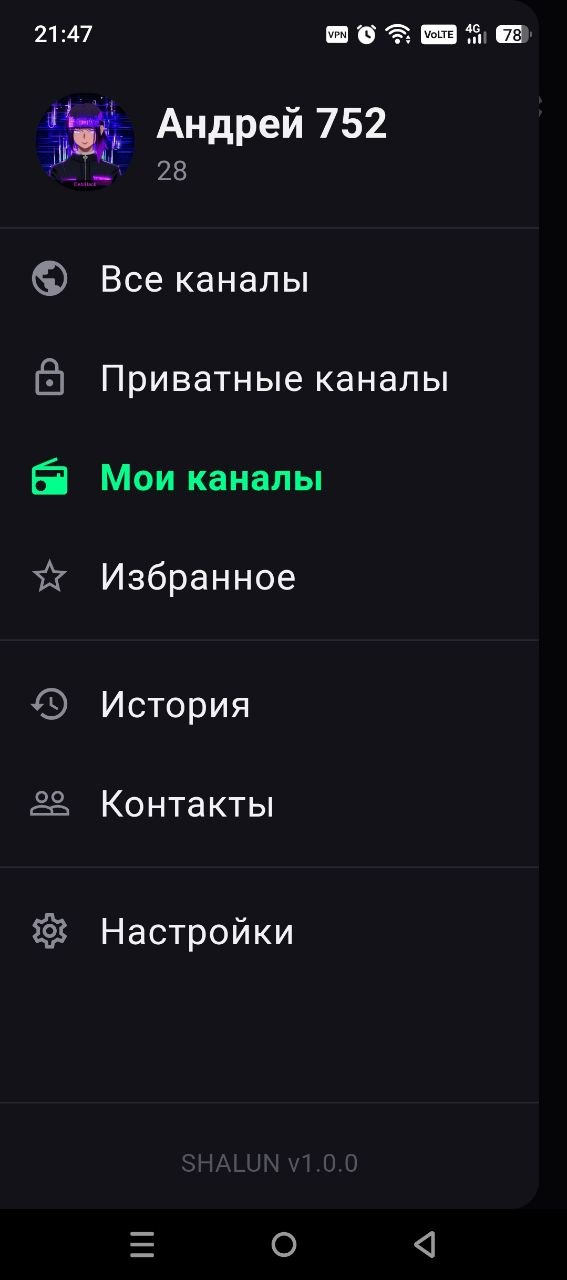
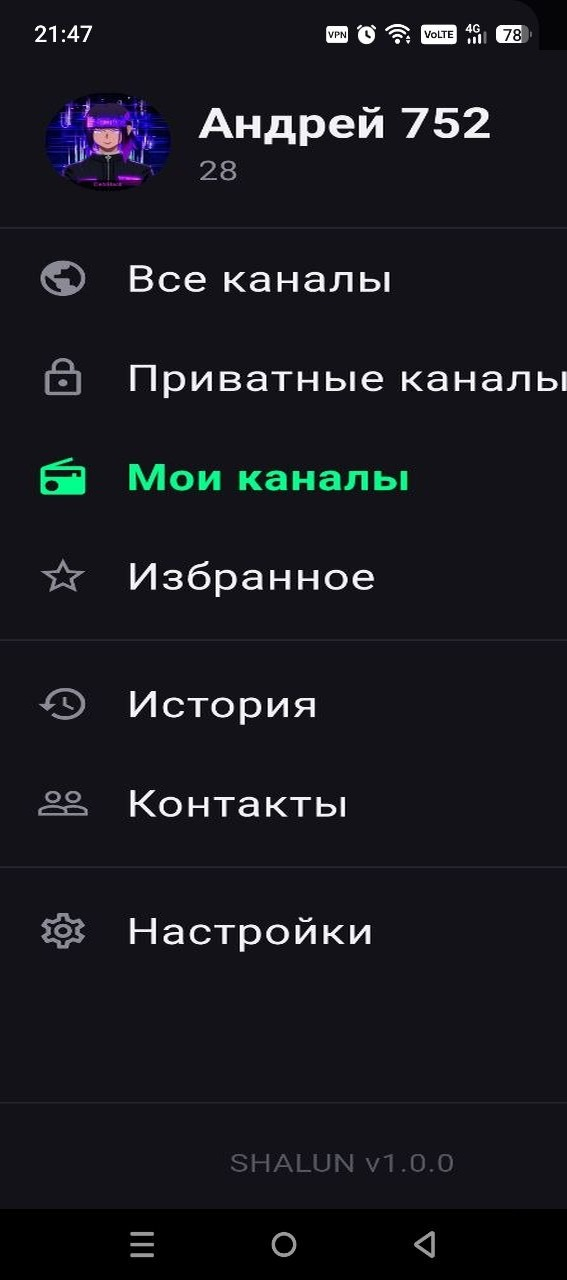
v10: ONLY drawer screenshot fixed (panel widened, no gap) — rest of v10 untouched

diff --git a/shalun/index.html b/shalun/index.html
@@ -269,7 +269,7 @@ footer .f-note b{color:var(--green);font-weight:600}
       <img class="screen-img" data-s="1" src="img/03-channels-list.jpg?v=10" alt="Мои каналы">
       <img class="screen-img" data-s="2" src="img/04-search-join-dialog.jpg?v=10" alt="Запрос на вход">
       <img class="screen-img" data-s="3" src="img/06-radio-screen.jpg?v=10" alt="Экран рации">
-      <img class="screen-img" data-s="4" src="img/07-drawer-menu.jpg?v=10" alt="Меню">
+      <img class="screen-img" data-s="4" src="img/07-drawer-menu.jpg?v=16" alt="Меню">
     </div>
     <div class="cap" id="storyCap"><b>ШАГ 1</b> — РЕГИСТРАЦИЯ</div>
   </div></div>
@@ -311,7 +311,7 @@ footer .f-note b{color:var(--green);font-weight:600}
     <h3>Меню — <em>всё под рукой</em></h3>
     <p>Свайп от левого края: все каналы, приватные, мои, избранное, история разговоров, контакты, настройки. <b>История</b> пригодится разобрать, кто и что передавал.</p>
     <span class="hint"><svg viewBox="0 0 24 24" fill="none" stroke-width="2"><path d="M17 21v-2a4 4 0 0 0-4-4H5a4 4 0 0 0-4 4v2M9 7a4 4 0 1 0 0 .01M23 21v-2a4 4 0 0 0-3-3.87M16 3.13a4 4 0 0 1 0 7.75"/></svg>Настройки: звук PTT, вибрация, шумоподавление</span>
-    <img class="screen-mini" src="img/07-drawer-menu.jpg?v=10" alt="">
+    <img class="screen-mini" src="img/07-drawer-menu.jpg?v=16" alt="">
   </div>
 </div></section>
 
